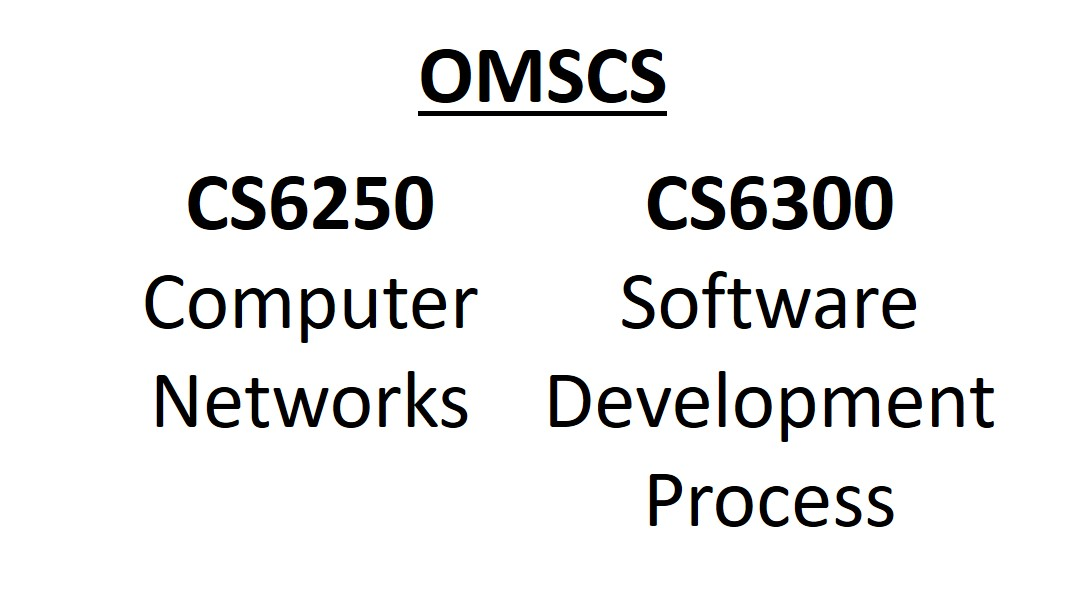
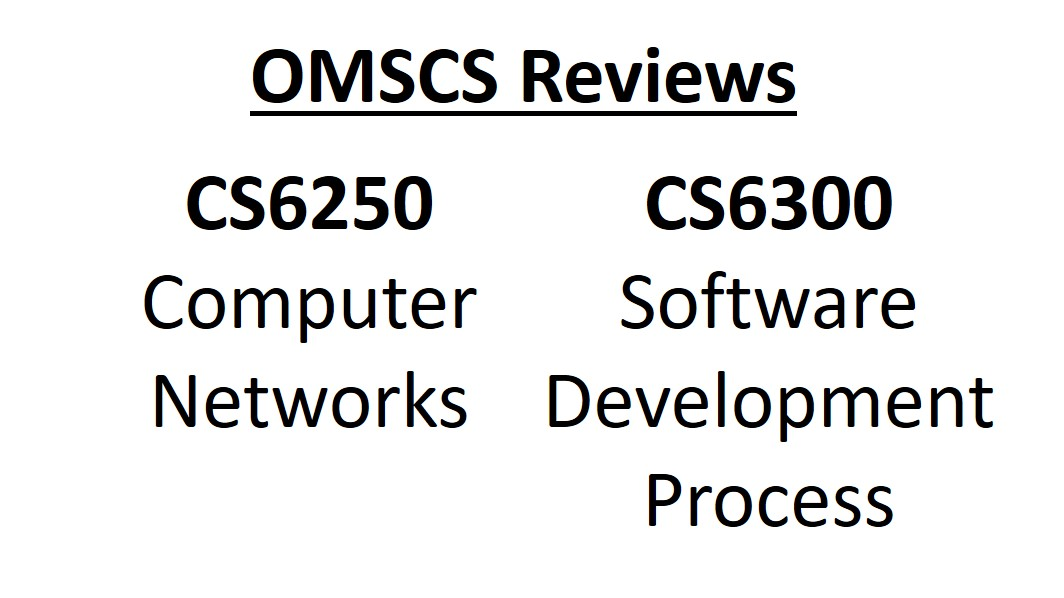
[BLOG][REVIEW] Added OMSCS reviews for all semesters in the first year

diff --git a/posts/omscscs62506300review.md b/posts/omscscs62506300review.md
@@ -1,0 +1,26 @@
+---
+title: 'OMSCS: Fall 2022 Course Review'
+date: 'December 18 2022'
+excerpt: 'For the Fall 2022 semester, I took CS6250 Computer Networks and CS6300 Software Development Process. Here is my review for these courses.'
+cover_image: '/assets/images/posts/OMSCS/CS6300CS6250Poster.jpg'
+---
+# Review: CS6250 Computer Networks
+## Objective
+I wanted to reinforce my knowledge on Computer Networks and integrate what I learn to understand the domain area of my work better. The domain area of my work involves complex infrastructure, supporting networks, and their automations. 
+## Learning Outcome
+The concepts taught in this course allowed me to connect the dots better in the workplace. I was finally able to understand better how different network protocols like OSPF and BGP worked, and how the automations that I bring to the front-end empower supporting engineers. Overall, it is a great course to take to get a better understanding over how computer networks and the internet works. 
+## Difficulty
+This course required consistent effort, with peaks in effort leading up to project submissions and exams. I spent roughly between **5 - 15 hours** per week on this course. 
+
+# Review: CS6300 Software Development Process
+## Objective
+My objective for taking CS6300 Software Development Process was to refine my software engineering skillset by learning and incorporating new software engineering skills and best practices in my day job as a Software Engineer. I also wanted to try out Android programming, the primary deliverable for the group assignment. 
+## Learning Outcome
+I was satisfied with the course, as I could further **refine my software engineering skills** by applying some of the things I learned in the workplace. For example, I began to incorporate concepts such as black box testing, white box testing, and test-driven development in the full-stack application projects I lead in my team. 
+
+After learning about various ways of collaboration, I introduced some of them to my team at work. **Because our team consisted of engineers of varying backgrounds, experience levels, and technical knowledge, peer programming allowed us to learn from each other's thought processes and thus solve problems more quickly.** It was constructive for interns and trainees because they could quickly pick up new techniques for tackling tasks.
+
+Finally, I gained much experience collaborating with team members across 3 different timezones in the Android Programming group project. As someone who likes to start and complete assignments earlier, I found that it was difficult to get in touch with my team members at the beginning. One team member also did not make it to the first meeting. We gave him a chance and were not disappointed. Our weekly schedule consisted of reading and assigning parts of a deliverable at the start, completing what we could during the week, and then getting together on a weekend call to finalize the deliverable. Overall, everyone contributed to the best of their ability. 
+
+## Difficulty
+As someone who has undergraduate and work experience as a Software Engineer, this course was manageable with consistent effort. I spent an estimate of between **5 - 12 hours** on this course.

diff --git a/posts/omscs63106750.md b/posts/omscs63106750.md
@@ -1,0 +1,26 @@
+---
+title: 'OMSCS: Spring 2022 Course Review'
+date: 'December 22 2022'
+excerpt: 'For the Spring 2022 semester, I took CS6310 Software Architecture and Design and CS6750 Human Computer Interaction. Here is my review for these courses.'
+cover_image: '/assets/images/posts/OMSCS/CS6310CS6750Poster.jpg'
+---
+# Review: CS6310 Software Architecture and Design
+## Objective
+As it had been quite some time since I had a formal introduction to software engineering (e.g., Object Oriented Programming) concepts, I wanted to refresh, refine, and reinforce my knowledge of designing software.
+## Learning Outcome
+This course helped me to revisit existing knowledge in software engineering. The lectures were quite long and a little dry. However, there is a lot of helpful content and concepts, so I completed them and took notes.
+
+I can't say that I could directly apply everything I've learned in the workplace, as some concepts like First Order Logic and Object Constraint Language are not immediately applicable. However, they were valuable topics to learn about in case I need to revisit them later. 
+
+What I could apply immediately were high-level concepts like design patterns, the distinction between functional and non-functional requirements, and various architectural styles. 
+## Difficulty
+This course required consistent effort due to the large amount of information to digest. I took many notes for future reference. I spent **8 - 12 hours** per week on this course, except for weeks leading up to assignment submission, when the time spent would be +-10 hours. This is an excellent course for reviewing or learning new software architecture and design concepts.
+
+# Review: CS6750 Human Computer Interaction
+## Objective
+I did not take a Human-Computer Interaction course during my undergraduate years. This course presented an opportunity to take a formal class on HCI and see how I can apply what I've learned in my work. 
+## Learning Outcome
+This course taught me how to view the design of everyday things differently. Due to the proliferation of electronics and computing power to every part of our lives, the course content was relevant to our every day lives. For example, we evaluated everyday computer designs in everything from web user interfaces to the controllers of standing desks. 
+
+## Difficulty
+This course required consistent effort. I spent about **10 - 15 hours** per week on this course. Time spent was greater during weeks when I had to work on the project or gather data.

diff --git a/posts/omscs6675.md b/posts/omscs6675.md
@@ -1,0 +1,17 @@
+---
+title: 'OMSCS: Summer 2022 Course Review'
+date: 'December 22 2022'
+excerpt: 'For the Summer 2022 semester, I took CS6675 Advanced Internet Systems and Applications. Here is my review for these courses.'
+cover_image: '/assets/images/posts/OMSCS/CS6675Poster.jpg'
+---
+# Review: CS6675 Advanced Internet Systems and Applications
+## Objective
+I wanted to gain a breadth of understanding of how various modern internet application systems worked at a high level. I also wanted to gain some practical experience in writing and designing modern internet application systems.
+## Learning Outcome
+The course briefly touches different internet application systems such as blockchain/cryptocurrency, web servers, and content distribution. Although it does not cover these topics in great depth, the course content combined with the readings is sufficient to get a high-level idea of these technologies, such that we can return to these topics later to learn more. 
+
+The assignments were consistent, and I enjoyed designing and writing up systems to solve a particular problems. The questions were focused but were open-ended enough to allow us to create a system that solves a problem area we are most interested. 
+
+No coding was required for the course's summer version, although if time permitted, students could choose to implement one of the designed internet systems.
+## Difficulty
+This course required consistent effort. I spent approximately **8 - 15 hours** each week on the course. Given that it is a summer course, the project section and the final topics were optional. It was an excellent overview of modern internet systems that help run the world today. 
